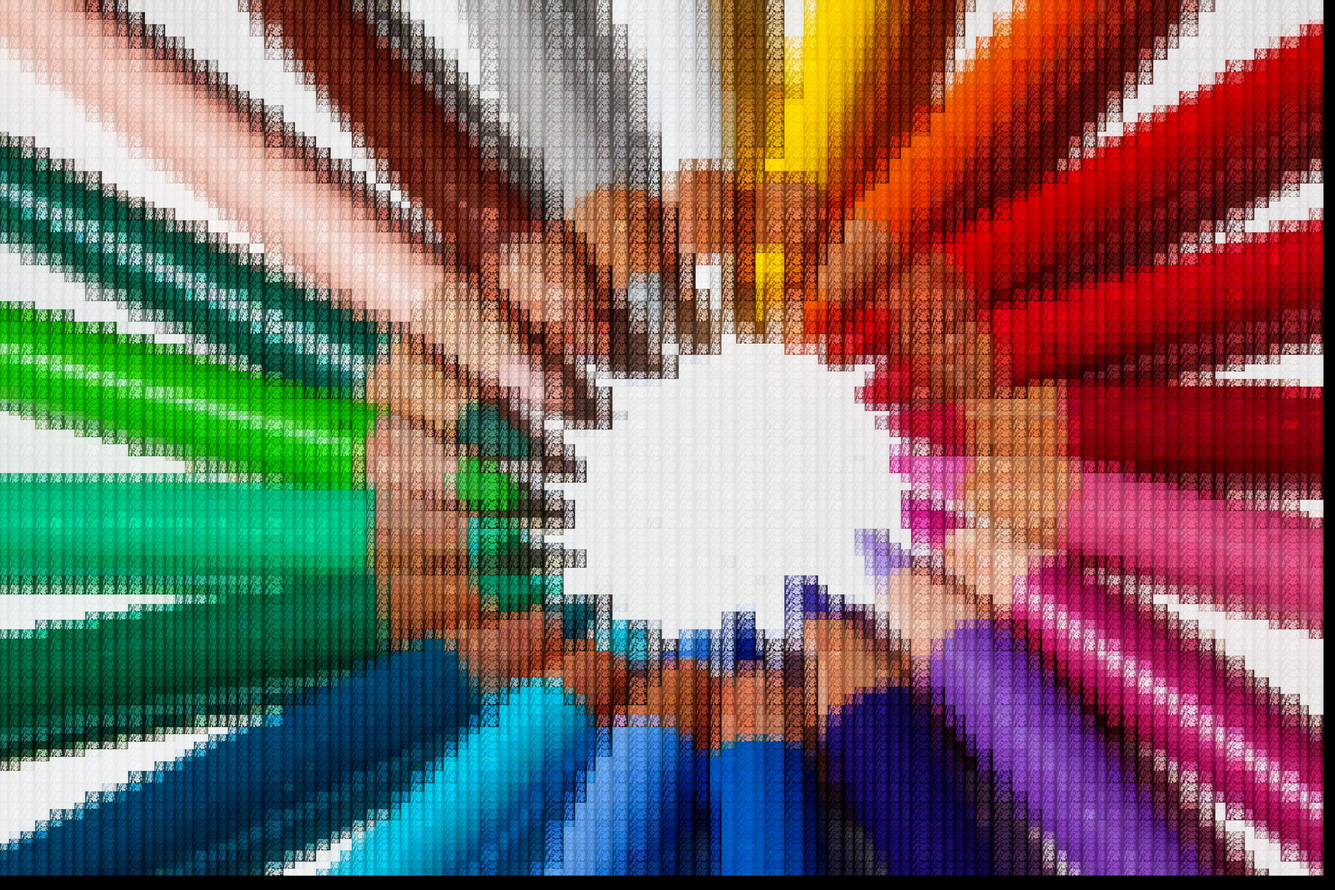
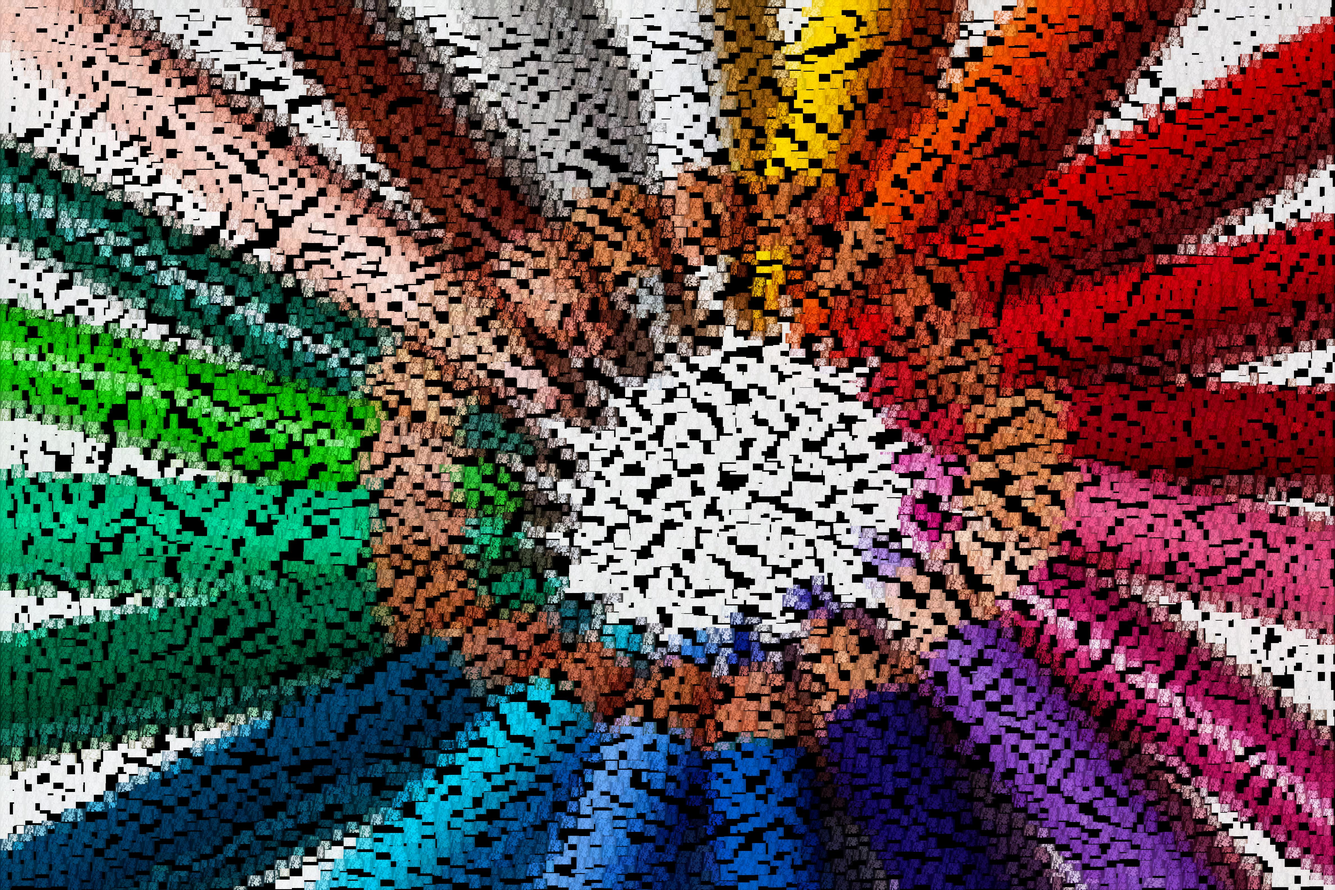
Added progress bar

diff --git a/source/project.py b/source/project.py
@@ -14,6 +14,28 @@
 import numpy as np
 import imageio
 from skimage.color import rgb2hsv, hsv2rgb
+import sys
+
+
+def setup_progressbar(bar_width=50):
+    # setup progressbar
+    sys.stdout.write("[%s]" % (" " * bar_width))
+    sys.stdout.flush()
+    # return to start of line, after '['
+    sys.stdout.write("\b" * (bar_width+1))
+
+
+def print_progress(n, i, bar_width=50):
+    # n -> total problem size, i-> iteration
+    # 1/100 -> 1 % --> 1/bar_width -> 1% of bar width
+    if (i % (round((1.0/bar_width)*n)) == 0):
+        # update the bar
+        sys.stdout.write("-")
+        sys.stdout.flush()
+
+
+def finish_progressbar():
+    sys.stdout.write("]\n")  # this ends the progress bar
 
 
 def normalize_image(img, new_min=0, new_max=255):
@@ -78,15 +100,14 @@ def create_division_dist(n_elem=100, n_div=10, mean=100, std=25, fix_black=0, ax
     u = u / np.sum(u)
 
     # possible black border fix
-    if (fix_black == 1):  # add the numeric error to the last element, so it can cover all pixels in the image
-        missing_x = axis_size - \
-            (np.sum((u*axis_size).astype(np.int)))  # numeric error
+    if (fix_black == 1): # add the numeric error to the last element, so it can cover all pixels in the image
+        missing_x = axis_size - (np.sum((u*axis_size).astype(np.int))) # numeric error
         u[-1] += missing_x / axis_size
 
     return u
 
 
-def create_mosaic_division(img, method=1, resolution=(50, 50), p=0.7, rand_parameters=(10, 10, 100, 25), fix_black=1):
+def create_mosaic_division(img, method=1, resolution=(50, 50), rand_parameters=(10, 10, 100, 25), fix_black=1):
     """ return an array of index that define a mosaic composition to overlay the image 
     
         input:
@@ -99,30 +120,6 @@ def create_mosaic_division(img, method=1, resolution=(50, 50), p=0.7, rand_param
         return:
             mosaic: array of tuples defining the subimages range (xi, xf, yi, yf)
             divisions: array of tuples defining the sizes that the tiles need to downscale after
-
-        
-        130 / 13 = 10 + resto
-
-        [ 2 2 2 2 2 1 1 1]
-
-        x = 3168 y = 4752  resolution=(100, 100)
-        3168 / n = 100 + borda_preta
-        n = 3168 / 100 = 31.68 = 31 + 0.68
-
-        100 * 0.68 = 68 >> 31
-        qts imgs * borda = nro de imagens com pixel a mais
-
-        0 - 67 imagens 32 pixels
-        68 - 99 -> 31 pixels
-
-        3168 / 8
-
-        4752 / m = 100 + borda
-        m = 4752 / 100 = 47.52 = 47 + 0.52
-
-        divisoes = [[31, 47], [31, 48], [32, 47], [32, 48]]
-        mosaico[i] = [xi=100, xf=131, 100, 147, divisao=0, imagem=0]
-        mosaico[-1] = 0 -> divisoes[0] = 31x47
 
     """
 
@@ -141,10 +138,8 @@ def create_mosaic_division(img, method=1, resolution=(50, 50), p=0.7, rand_param
         missing_x = 0
         missing_y = 0
         if fix_black == 1:
-            missing_x = round(
-                ((x/resolution[0]) - (x//resolution[0])) * resolution[0])
-            missing_y = round(
-                ((y/resolution[1]) - (y//resolution[1])) * resolution[1])
+            missing_x = round(((x/resolution[0]) - (x//resolution[0])) * resolution[0])
+            missing_y = round(((y/resolution[1]) - (y//resolution[1])) * resolution[1])
         print("Mosaic divison: n = ", n, ", m = ", m)
         print("Black border size: ", missing_x, missing_y)
 
@@ -170,10 +165,8 @@ def create_mosaic_division(img, method=1, resolution=(50, 50), p=0.7, rand_param
     elif method == 2:
         # creates a random mosaic in the x and y dimension, while mantaining the desired resolution
 
-        u = create_division_dist(n_elem=resolution[0], n_div=rand_parameters[0],
-                                 mean=rand_parameters[2], std=rand_parameters[3], fix_black=fix_black, axis_size=x)
-        v = create_division_dist(n_elem=resolution[1], n_div=rand_parameters[1],
-                                 mean=rand_parameters[2], std=rand_parameters[3], fix_black=fix_black, axis_size=y)
+        u = create_division_dist(n_elem=resolution[0], n_div=rand_parameters[0], mean=rand_parameters[2], std=rand_parameters[3], fix_black=fix_black, axis_size=x)
+        v = create_division_dist(n_elem=resolution[1], n_div=rand_parameters[1], mean=rand_parameters[2], std=rand_parameters[3], fix_black=fix_black, axis_size=y)
 
         # fill the mosaic divison
         last_x = 0
@@ -211,7 +204,7 @@ def create_mosaic_division(img, method=1, resolution=(50, 50), p=0.7, rand_param
 
             # varias colunas com larguras diferentes
             v = create_division_dist(n_elem=resolution[1], n_div=rand_parameters[1],
-                                     mean=rand_parameters[2], std=rand_parameters[3], fix_black=fix_black, axis_size=y)
+                                            mean=rand_parameters[2], std=rand_parameters[3], fix_black=fix_black, axis_size=y)
 
             last_y = 0
             for j in range(resolution[1]):
@@ -237,13 +230,10 @@ def create_mosaic_division(img, method=1, resolution=(50, 50), p=0.7, rand_param
             last_y = 0
             for j in range(resolution[1]):
                 yi = last_y
-                yf = int(round(v[j]*y + yi))  # 20 top, 40 meio ruim
+                yf = int(round(v[j]*y + yi)) # 20 top, 40 meio ruim
                 last_y = int(round(v[j]*y + yi))
                 mosaic[(i*resolution[1]) + j, 2] = yi
                 mosaic[(i*resolution[1]) + j, 3] = yf
-
-                # mosaic[(i*resolution[1]) + j] = [xi, xf, yi, yf, d]
-                # mosaic[(i*resolution[1]) + j] = append([0, 0, yi, yf, 0])
 
         # varias linhas aleatorias com alturas diferentes
         for j in range(resolution[1]):
@@ -270,6 +260,7 @@ def create_mosaic_division(img, method=1, resolution=(50, 50), p=0.7, rand_param
                 d = find_division(divisions, xi, xf, yi, yf)
 
                 mosaic[(i*resolution[1]) + j] = [xi, xf, yi, yf, d]
+
 
     return mosaic, divisions
 
@@ -348,7 +339,7 @@ def alter_color(img, predominant_color, min_color, max_color, method=1):
     return np.clip(out_img, 0, 255)
 
 
-def mosaic_transform(canvas_img, tile_img, division_method=1, resolution=(50, 50), p=0.7, random_shapes=(10, 10, 100, 25), fix_black=1, get_color_method=1, alter_color_method=2):
+def mosaic_transform(canvas_img, tile_img, division_method=1, resolution=(50, 50), rand_parameters=(10, 10, 100, 25), fix_black=1, get_color_method=1, alter_color_method=2):
     """ creates a mosaic that represents one image using other images
         
         inputs:
@@ -370,17 +361,27 @@ def mosaic_transform(canvas_img, tile_img, division_method=1, resolution=(50, 50
 
     print("Creating mosaic...")
     mosaic, divisions = create_mosaic_division(
-        canvas_img, method=division_method, resolution=resolution, fix_black=fix_black)
+        canvas_img, method=division_method, resolution=resolution, rand_parameters=rand_parameters, fix_black=fix_black)
 
-    print("number of divison: ", len(divisions))
-    print(divisions)
+    n_div = len(divisions)
+    print("number of divison: ", n_div)
+    # print(divisions)
 
     print("Creating tile images...")
+    setup_progressbar()
+    i = 0
+
     down_tiles = []
     for division in divisions:
         down_tiles.append(downscale(tile_img, division[0], division[1]))
+        i += 1
+        print_progress(n=n_div, i=i)
+    finish_progressbar()
 
     print("Composing the Mosaic...")
+    setup_progressbar()
+    i = 0
+
     for subimage in mosaic:
         xi, xf, yi, yf, d = subimage
 
@@ -389,6 +390,9 @@ def mosaic_transform(canvas_img, tile_img, division_method=1, resolution=(50, 50
         tile = alter_color(
             down_tiles[d], predominant_color, min_color, max_color, method=alter_color_method)
         out_img[xi:xf, yi:yf] = tile
+        i += 1
+        print_progress(n=resolution[0]*resolution[1], i=i)
+    finish_progressbar()
 
     return out_img
 
@@ -406,8 +410,8 @@ tile_img = imageio.imread('../images/'+img_name_tile)
 canvas_img = canvas_img.astype(np.float)
 tile_img = tile_img.astype(np.float)
 
-out_img = mosaic_transform(canvas_img, tile_img, division_method=2, resolution=(
-    100, 100), p=0.7, random_shapes=(10, 10, 100, 25), fix_black=1, get_color_method=1, alter_color_method=2)
+out_img = mosaic_transform(canvas_img, tile_img, division_method=4, resolution=(
+    100, 100), rand_parameters=(10, 10, 100, 25), fix_black=0, get_color_method=1, alter_color_method=2)
 out_img = out_img.astype(np.uint8)
 
 
